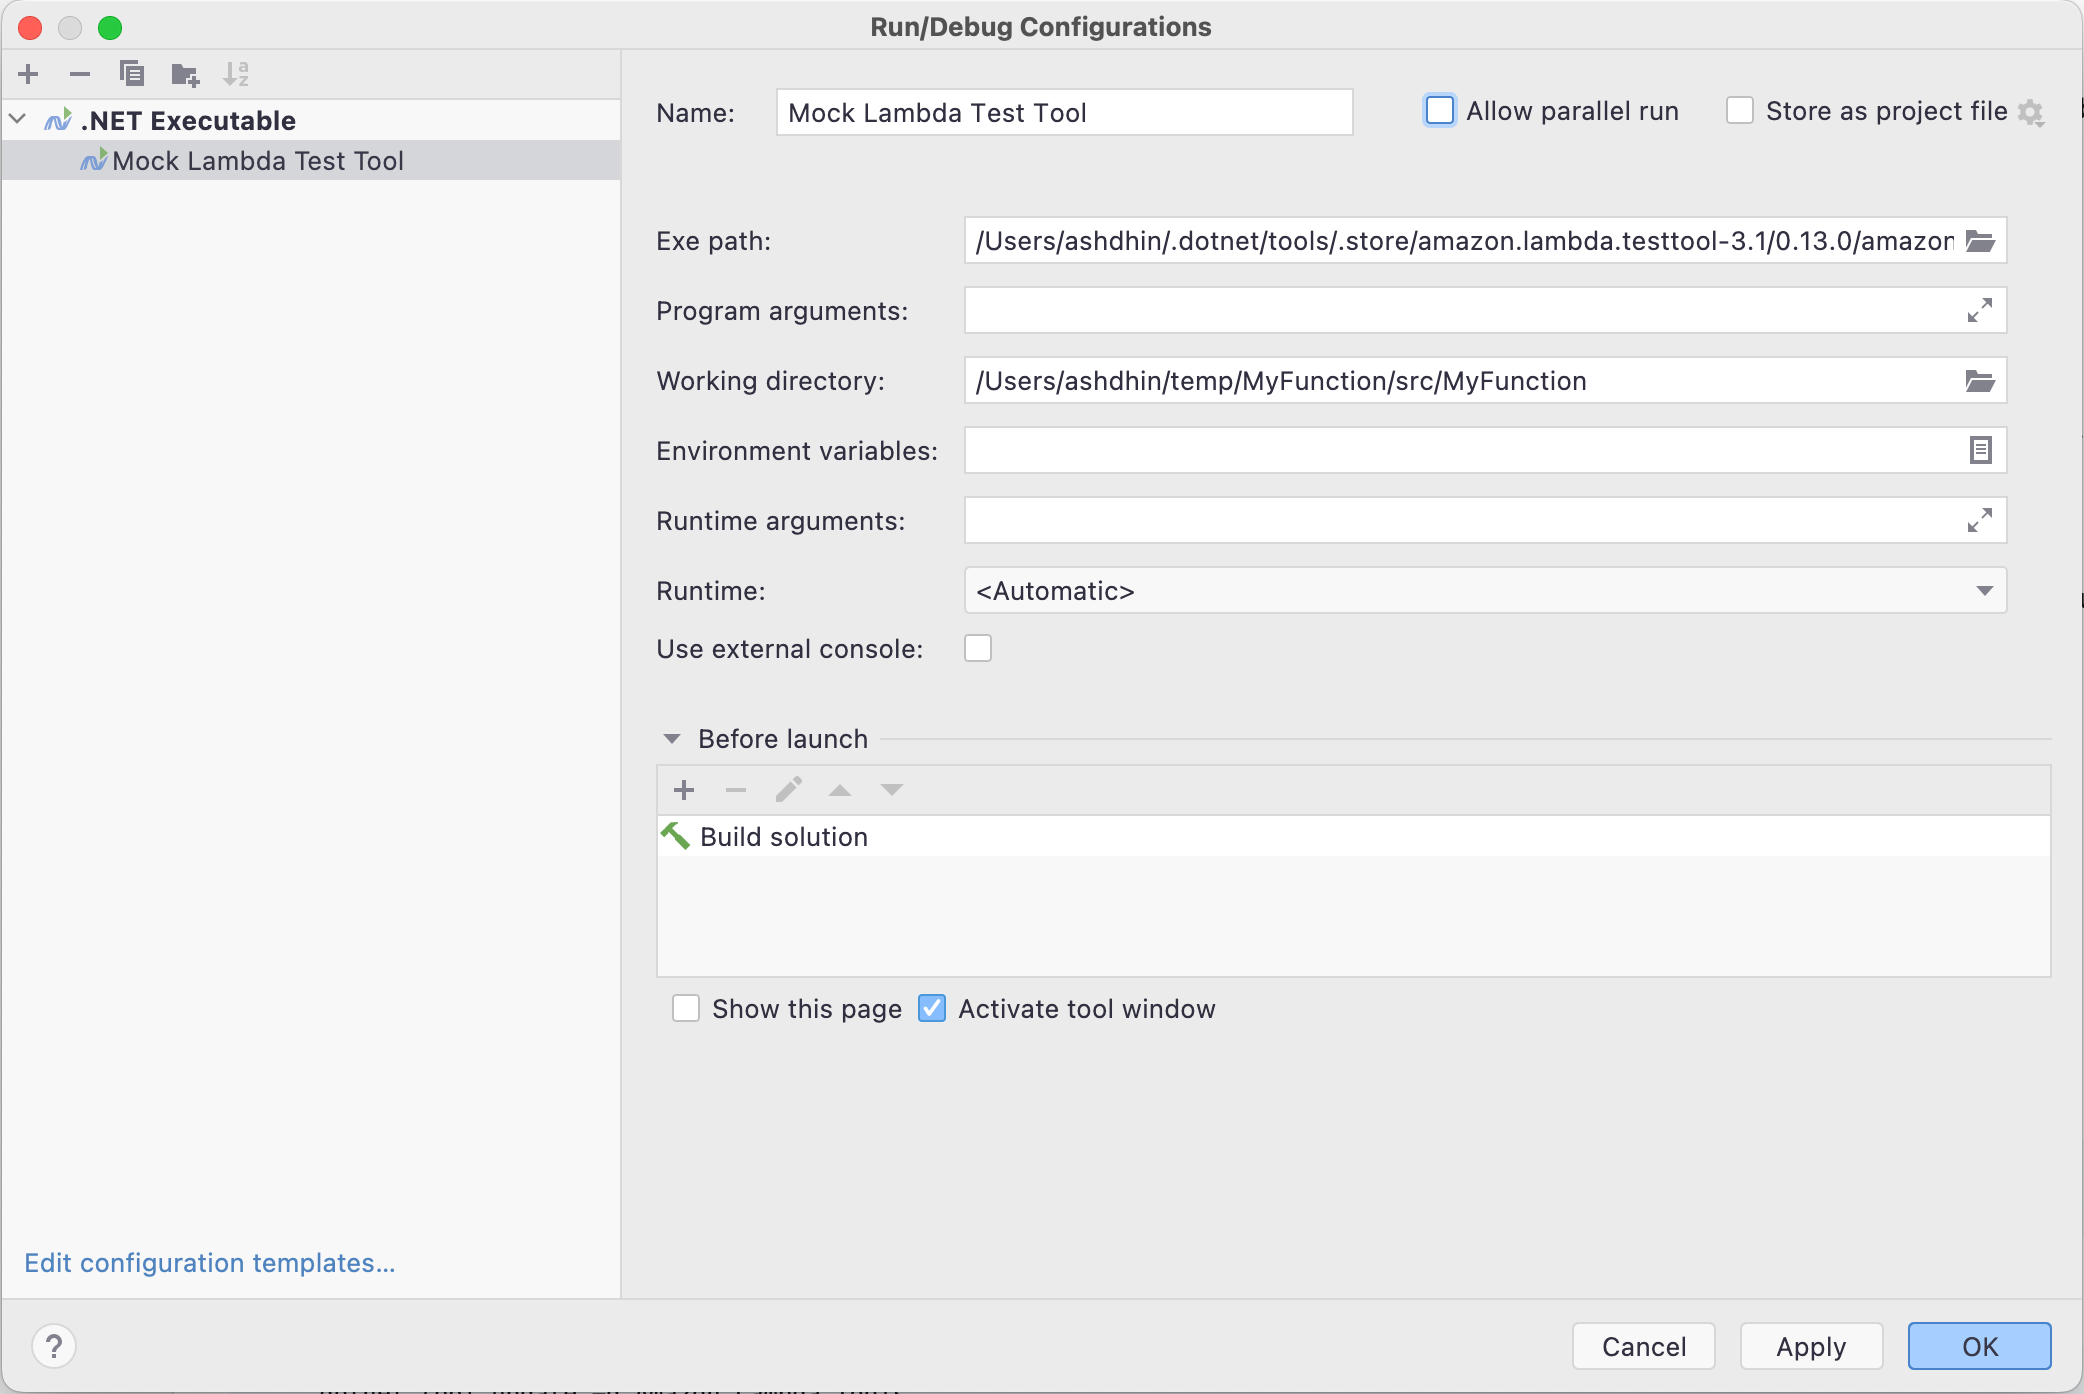
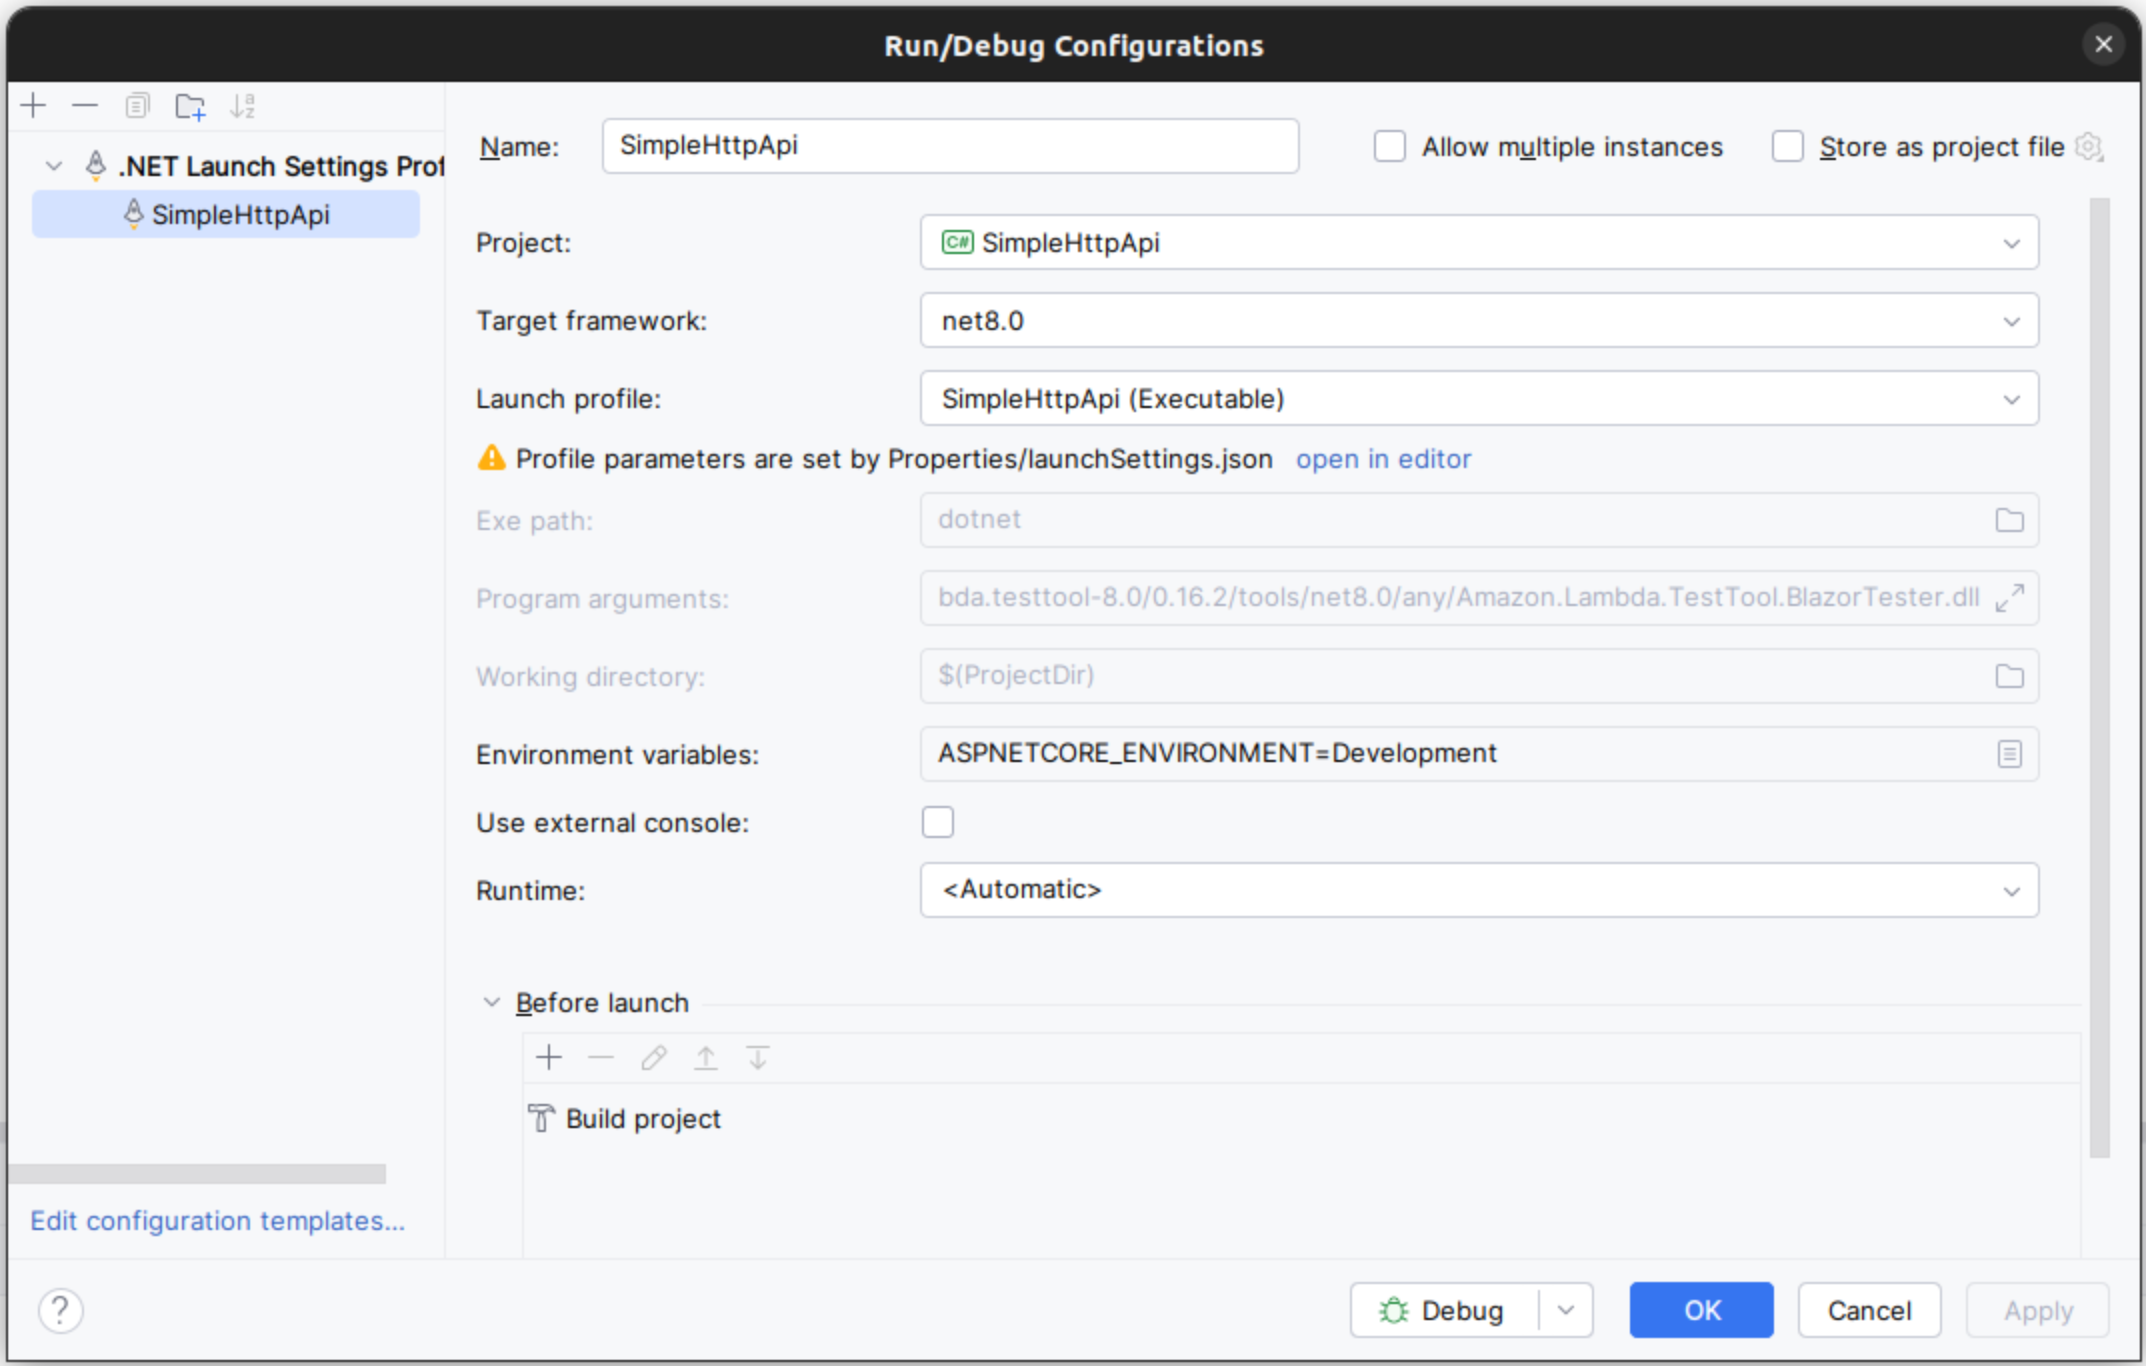
Updating configuration notes for JetBrains Rider

diff --git a/Tools/LambdaTestTool/README.md b/Tools/LambdaTestTool/README.md
@@ -204,13 +204,34 @@ Remember when you update your version of the .NET Mock Lambda Test Tool to updat
 Follow the following steps to configure Rider
 * Select Run->Edit Configurations...
 * Push the `+` button to add a configuration and select `.NET Executable`
-* Set the `Exe path` field to the full path of `Amazon.Lambda.TestTool.BlazorTester.dll` as described above
-* Set the `Working directory` field to the .NET Core Lambda project root
+* Set the `Exe path` field to `dotnet`
+* Set the `Program Arguments` field to the full path of `Amazon.Lambda.TestTool.BlazorTester.dll` as described above
+* Set the `Working directory` field to the .NET Lambda project root
 * Push OK
 
 After following these steps, any time you start the debugger in Rider, it will subsequently launch the .NET Mock Lambda Test Tool.
 
 ![Rider Run/Debug Configuration](./Resources/RiderSetup.png)
+
+
+You can also specify a launchSettings.json configuration such as the following to provide this information to Rider:
+
+```
+{
+  "$schema": "http://json.schemastore.org/launchsettings.json",
+  "profiles": {
+    "SimpleHttpApi": {
+      "commandName": "Executable",
+      "executablePath": "dotnet",
+      "commandLineArgs": "/home/<USER>/.dotnet/tools/.store/amazon.lambda.testtool-8.0/<nuget-version>/amazon.lambda.testtool-8.0/<nuget-version>/tools/net8.0/any/Amazon.Lambda.TestTool.BlazorTester.dll",
+      "workingDirectory": "$(ProjectDir)",
+      "environmentVariables": {
+        "ASPNETCORE_ENVIRONMENT": "Development"
+      }
+    }
+  }
+}
+```
 
 ## Configure for Visual Studio for Mac
 
